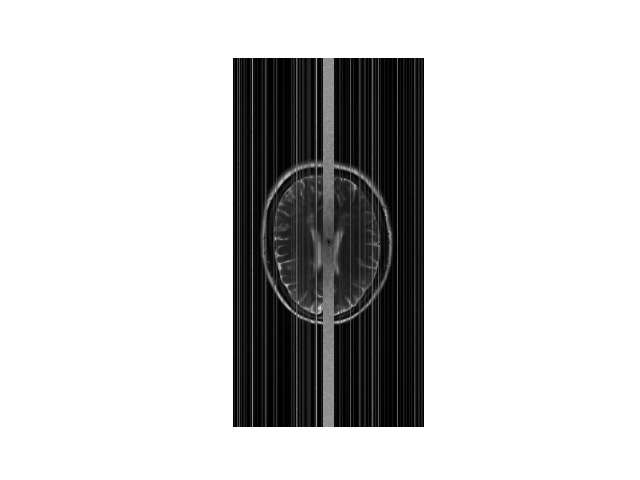
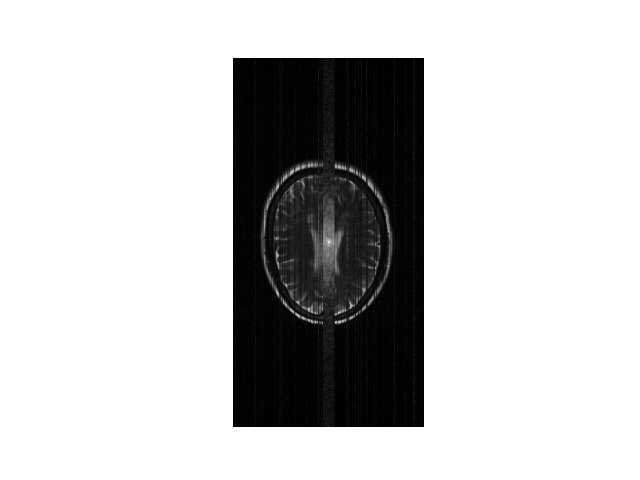
check xfake

Changed region(s): [[0.3438, 0.125, 0.6562, 0.9062]]

diff --git a/my_CDLNet/sense.py b/my_CDLNet/sense.py
@@ -17,7 +17,7 @@ parser.add_argument("--kspace_path", type =str, help="Corresponding path where k
 
 # This will implement SENSE, which essentially performs conjugate gradient on the normal equations for MRI
 
-def eHe(x, mri_encoding, mri_decoding, lam = torch.tensor(0.0000 + 0.000j)):
+def eHe(x, mri_encoding, mri_decoding, lam = torch.tensor(0.0001 + 0.000j)):
     # Performs E^H E with lambda regularization
     return mri_decoding(mri_encoding(x)) + lam * x
 
@@ -71,7 +71,7 @@ def main(args):
     # Normalize smaps for SENSE
     power = torch.sum(torch.abs(smaps)**2, dim=0, keepdim=True)
     # smaps = smaps / torch.sqrt(power + 1e-8)
-    kspace = kspace.to(device) 
+    kspace = kspace.to(device) * 1e6
     mask = mask.to(device)
     # Mask kspace
     kspace_masked = torch.complex(mask[None, :, :], torch.zeros_like(mask[None, :, :])) * kspace
